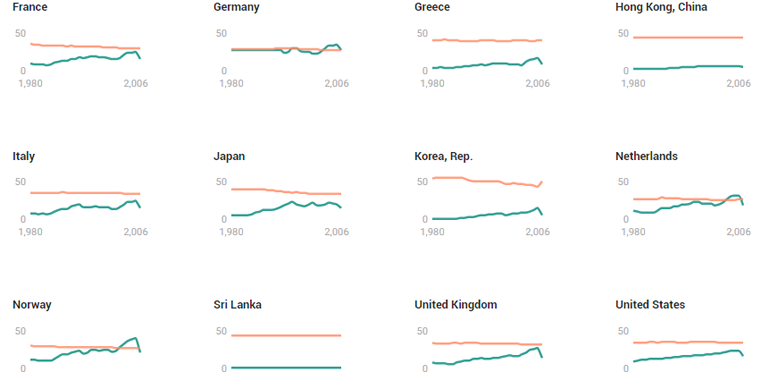
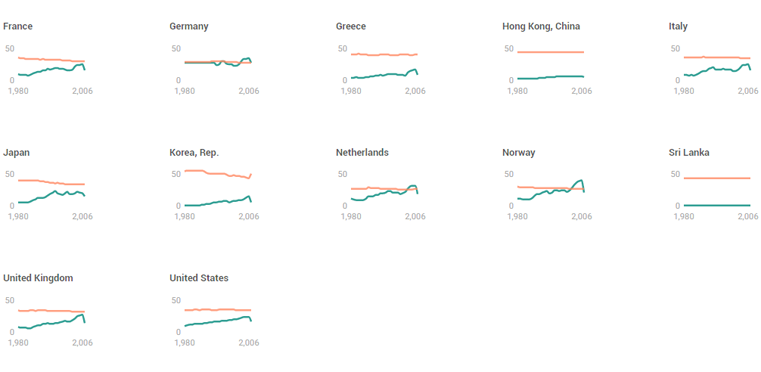
add examples

diff --git a/index.html b/index.html
@@ -77,7 +77,7 @@ layout: default
 			</li>
 			<li>
 				<div class='nameIn'>Houly Compensation Small Multiples</div>
-				<a href="http://kimjihee.github.io/Hour_compensation.html"><img src="images/houly_compensation.png"></a>
+				<a href="http://kimjihee.github.io/compensation.html"><img src="images/houly_compensation.png"></a>
 				<ul class="github">
 					<li>D3.js, html<span class="minsize">&nbsp;&nbsp;&nbsp;&nbsp;&nbsp;&nbsp;&nbsp;&nbsp;</span></li>
 					<li class="liArrange">Source Code</li>
@@ -109,6 +109,15 @@ layout: default
 					<li>D3.js, html<span class="minsize">&nbsp;&nbsp;&nbsp;&nbsp;&nbsp;&nbsp;&nbsp;&nbsp;</span></li>
 					<li class="liArrange">Source Code</li>
 					<li><a href="http://data.seoul.go.kr/openinf/fileview.jsp?infId=OA-2732&tMenu=11">Dataset</a></li>
+				</ul>
+			</li>
+			<li>
+				<div class='nameIn'>Working Time & Houly Compensation</div>
+				<a href="http://kimjihee.github.io/workingTime_HourlyCompensation"><img src="images/working_time_hour_compensation.png"></a>
+				<ul class="github">
+					<li>D3.js, html<span class="minsize">&nbsp;&nbsp;&nbsp;&nbsp;&nbsp;&nbsp;&nbsp;&nbsp;</span></li>
+					<li class="liArrange">Source Code</li>
+					<li><a href="https://docs.google.com/spreadsheets/d/1EjRPqwPTkOY4whM0V9ZS06KEcqjgUy0C4MFcyMHmngE/pub?gid=0">Dataset</a></li>
 				</ul>
 			</li>
 			<li>

diff --git a/suicide_databinding_1.html b/suicide_databinding_1.html
@@ -103,7 +103,7 @@
             , }
  
             var padding = 20;
-            var Width = 1000;
+            var Width = 1150;
             var Height = 500;
 ////----------------------------------------column----------------------------------------
             d3.select('#chart')
@@ -122,12 +122,12 @@
                     
             columnSel.exit().remove();
             columnSel.attr('transform', function (d,i) {
-                return 'translate(' + ( Math.floor(i%8)* (Width/8) + MARGIN.LEFT )+ ', '+ ((Height/2)* Math.floor(i/8) +  MARGIN.TOP  )+ ')';
+                return 'translate(' + ( Math.floor(i%9)* (Width/9) + MARGIN.LEFT )+ ', '+ ((Height/2)* Math.floor(i/9) +  MARGIN.TOP  )+ ')';
             });
                         
             var xScale = d3.scale.linear()
                 .domain(yearExtent)
-                .rangeRound([padding*1.5, (Width/8) - padding*1.5]);
+                .rangeRound([padding*1.5, (Width/9) - padding*1.5]);
             var yScale = d3.scale.linear()
                 .domain(valueExtent)
                 .rangeRound([(Height/2) - padding*2 , padding*2]);
